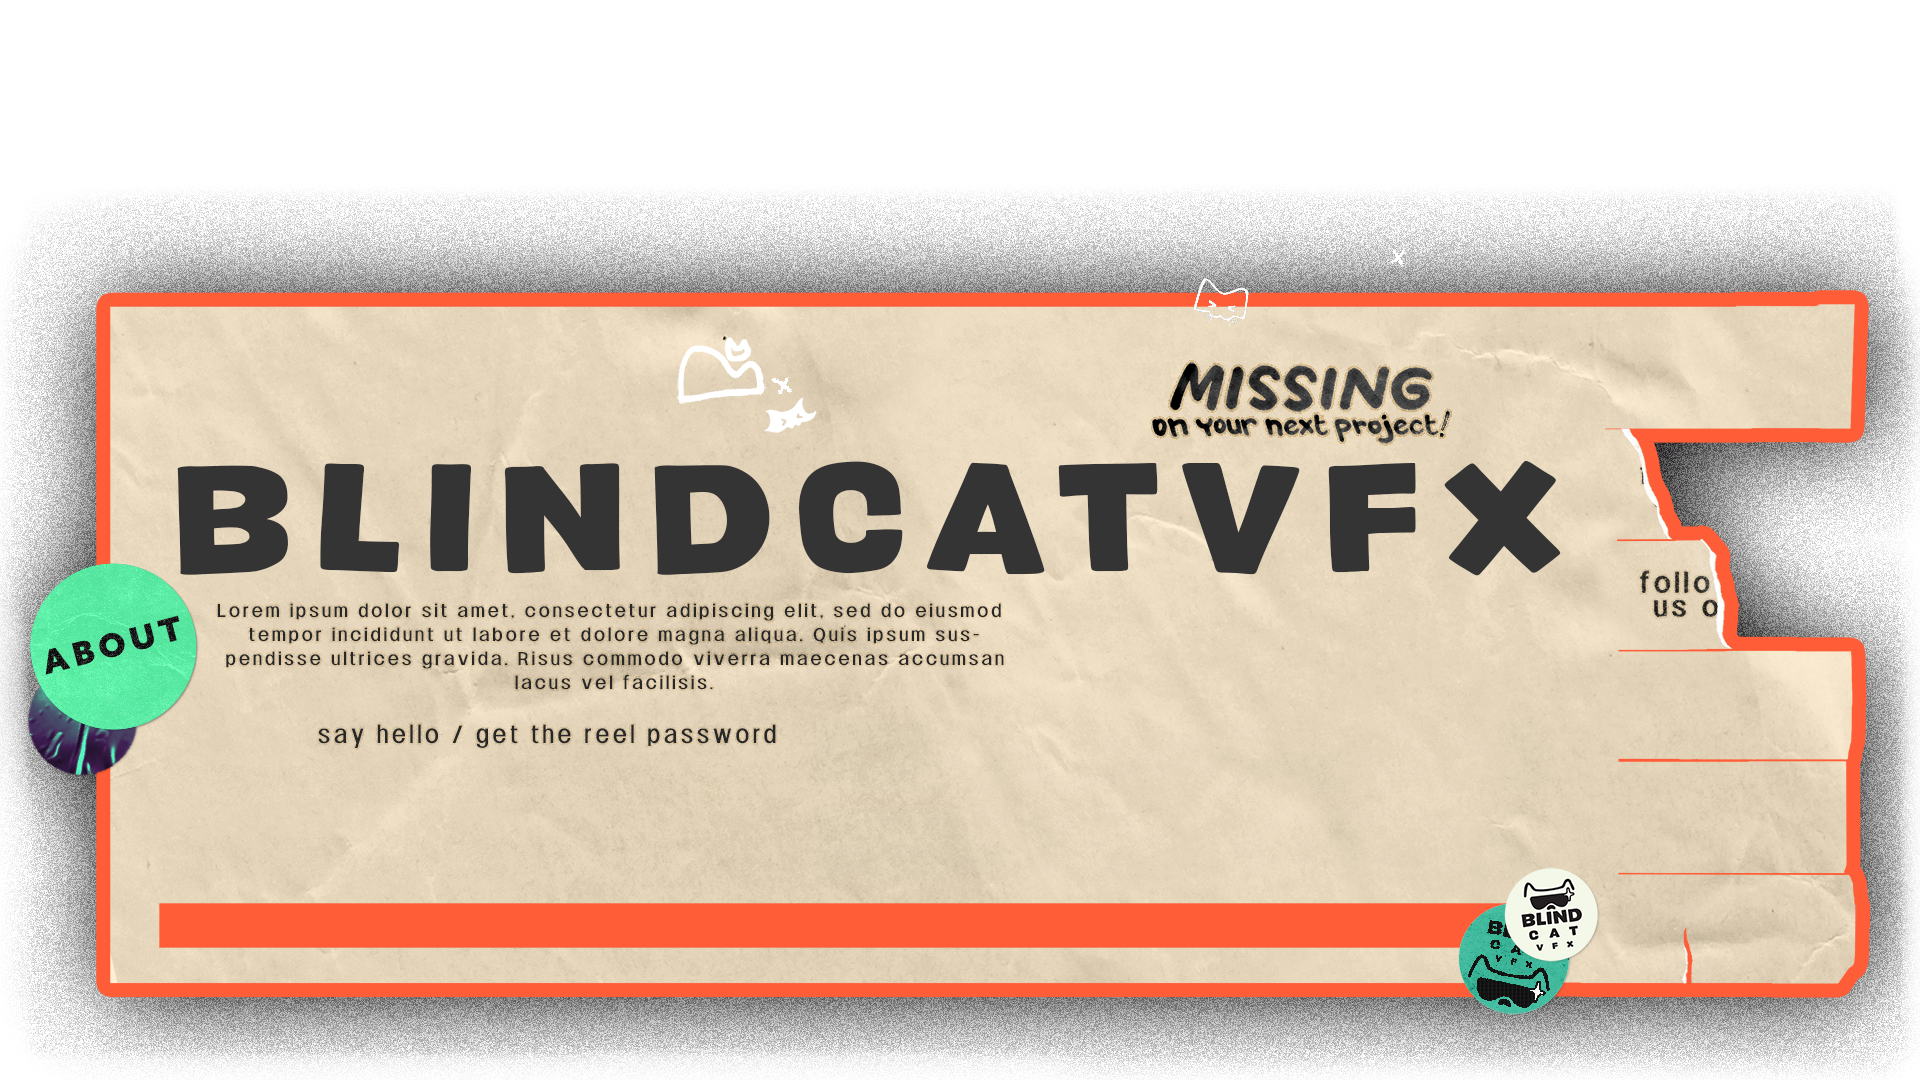
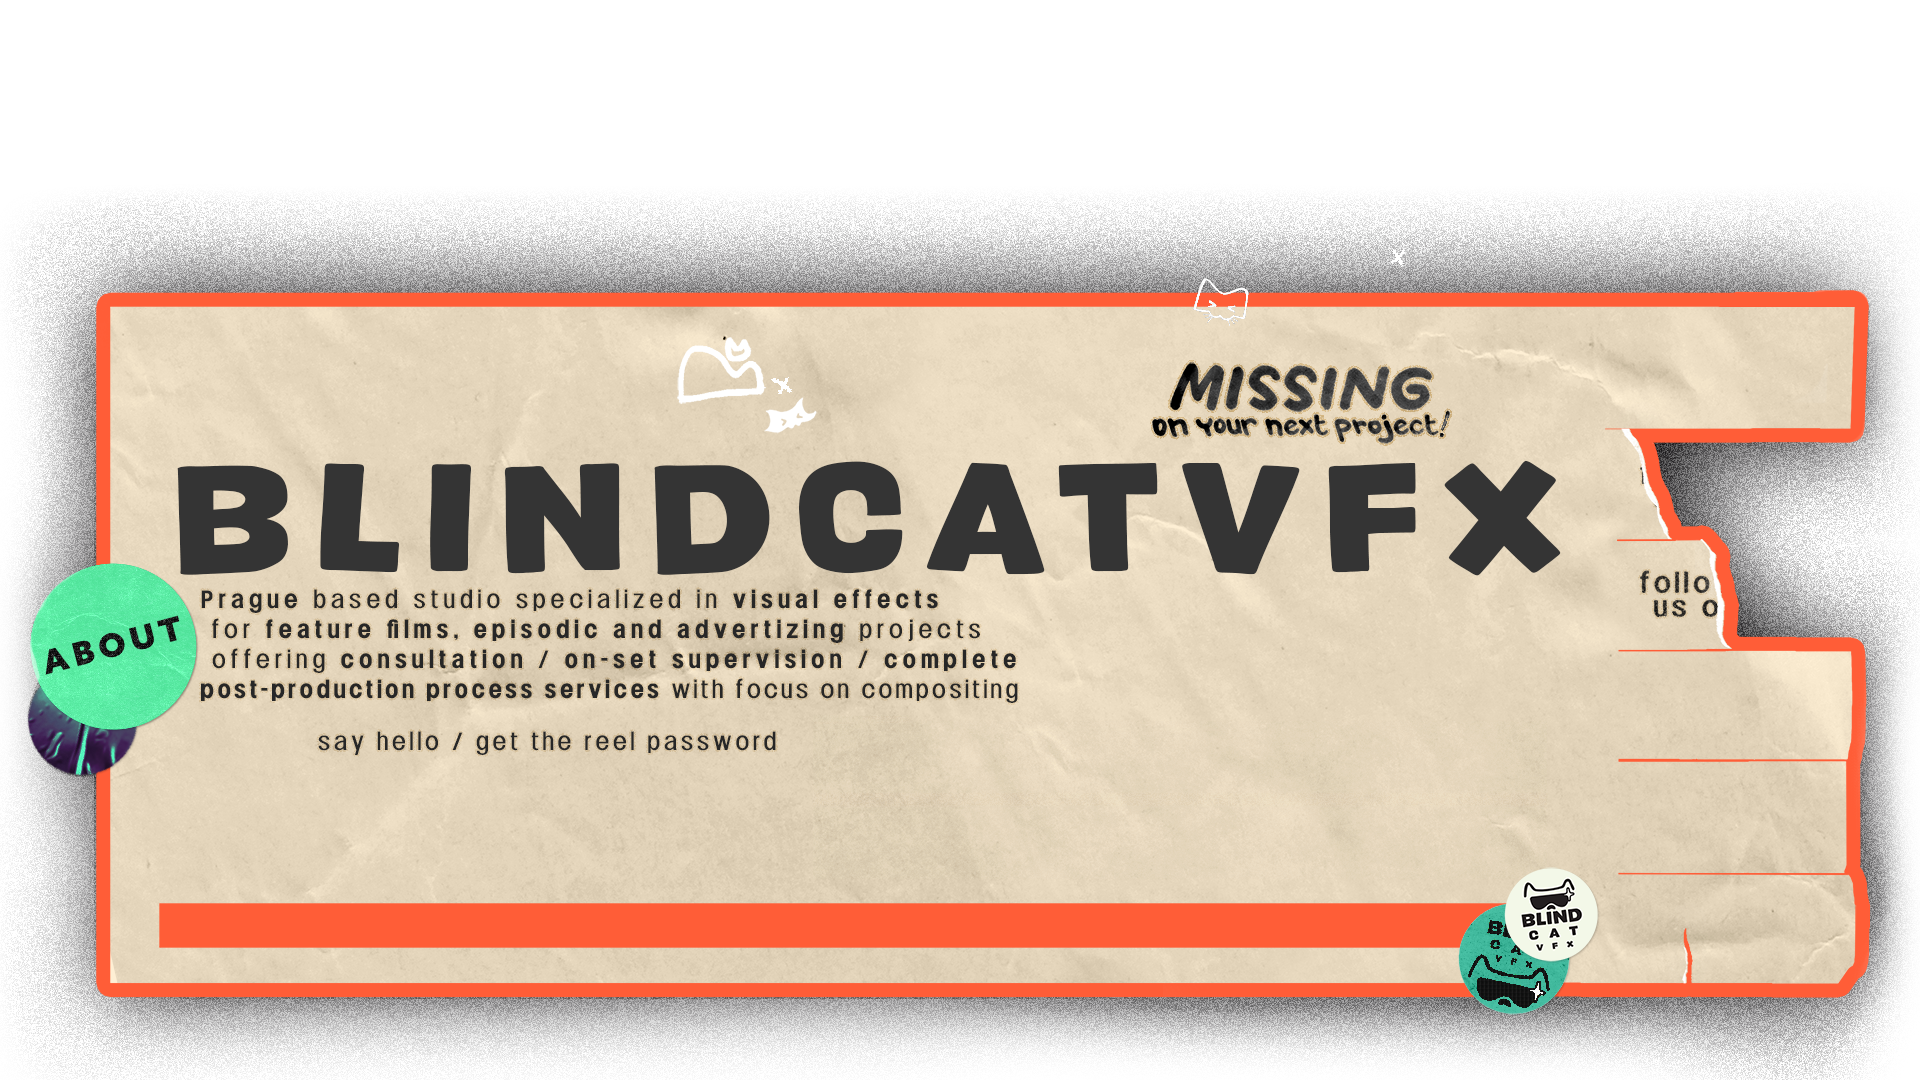
about us section updated, horizontal button, sticker and vertical fields

diff --git a/desktop.css b/desktop.css
@@ -32,10 +32,10 @@
     background-size: contain;
     background-repeat: no-repeat;
     background-position: center;
-    top: 44%;
-    left: 53%;
-    bottom: 37%;
-    right: 16%;
+    top: 43.2%;
+    left: 54.5%;
+    bottom: 37.8%;
+    right: 14%;
   }
   #reel-hyperlink:active,
   #reel-hyperlink:hover {
@@ -111,25 +111,27 @@
     display: flex;
     flex-direction: column;
     margin-bottom: 1.15%;
-    padding-right: 1%;
-    padding-left: 2.55%;
+    padding-right: 0%;
+    padding-left: 2.5%;
+    padding-bottom: 0.14%;
     align-self: flex-end;
   }
 
   #form-container button {
-    background-image: url(./assets/elements/horizontal/button/idle.webp);
-    width: 100%;
-    height: 15%;
+    width: 97.7%;
+    height: 15.5%;
     background-color: transparent;
     border: none;
     outline: none;
     font-size: auto;
-    margin-top: 1%;
+    margin-top: 0.94%;
   }
 
   #form-container button:active,
   #form-container button:hover {
     background-image: url(./assets/elements/horizontal/button/active.webp);
+    background-size: cover;
+    aspect-ratio: 1406 / 45;
   }
 
   #form-contacts {
@@ -142,7 +144,7 @@
   }
 
   #form-fields {
-    width: 100%;
+    width: 99%;
     height: 75%;
     display: flex;
     flex-direction: row;
@@ -227,5 +229,15 @@
     scale: 1;
     align-self: center;
     margin-bottom: 75.3%;
+  }
+  #stickers {
+    background-image: url(./assets/elements/horizontal/sticker.webp);
+    background-size: contain;
+    background-repeat: no-repeat;
+    position: absolute;
+    top: 83.5%;
+    left: 77.8%;
+    bottom: -5%;
+    right: 14%;
   }
 }

diff --git a/mobile.css b/mobile.css
@@ -149,8 +149,8 @@
     background-size: 99.9% 95%;
     background-repeat: no-repeat;
     aspect-ratio: 481 / 34;
-    height: 57%;
-    padding-left: 33%;
+    height: 55%;
+    padding-left: 25%;
     padding-top: 0.6%;
     padding-right: 1.5%;
     padding-bottom: 3.3%;
@@ -159,9 +159,9 @@
   #name-field .input-label {
     background-image: url(./assets/elements/vertical/name/label.webp);
     aspect-ratio: 235/76;
-    scale: 0.85;
+    scale: 0.7;
     margin-top: 0.5%;
-    left: 0%;
+    left: -3%;
 }
 
   #name-field:active,
@@ -175,7 +175,7 @@
     background-repeat: no-repeat;
     aspect-ratio: 481 / 34;
     height: 59%;
-    padding-left: 33%;
+    padding-left: 28%;
     padding-top: 0%;
     padding-right: 1.4%;
     padding-bottom: 1%;
@@ -184,8 +184,9 @@
   #email-field .input-label {
     background-image: url(./assets/elements/vertical/email/label.webp);
     aspect-ratio: 235/76;
-    scale: 1.02;
-    left: 3%;
+    scale: 0.85;
+    left: 0.5%;
+    top: -2.5%;
 }
 
   #email-field:active,
@@ -199,7 +200,7 @@
     background-repeat: no-repeat;
     height: 60%;
     width: 100%;
-    margin-top: 5%;
+    margin-top: 3.5%;
     padding-top: 1.3%;
     padding-left: 1.6%;
     padding-right: 1.6%;

diff --git a/index.htm b/index.htm
@@ -88,6 +88,8 @@
                     target="_blank">
                     <button type="submit" class="hyperlink-button"></button>
                 </form>
+                <div id="stickers">
+                </div>
             </div>
         </section>
     </main>
